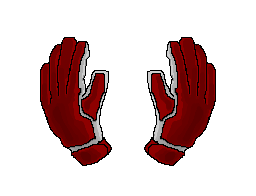
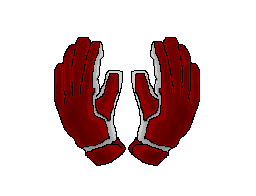
Les gants bougent en fonction de la souris. BalloonEntity factorisé

Changed region(s): [[0.1562, 0.1837, 0.8438, 0.8571]]

diff --git a/GameFramework/src/gogoal/game/TrainingSession.java b/GameFramework/src/gogoal/game/TrainingSession.java
@@ -1,6 +1,8 @@
 package gogoal.game;
 
 import java.awt.Canvas;
+import java.awt.Point;
+import java.awt.image.BufferedImage;
 import java.util.Date;
 
 import gameframework.game.CanvasDefaultImpl;
@@ -12,7 +14,10 @@ import gameframework.game.MoveBlockerChecker;
 import gameframework.game.MoveBlockerCheckerDefaultImpl;
 import gameframework.game.OverlapProcessor;
 import gameframework.game.OverlapProcessorDefaultImpl;
+import gogoal.game.entities.BalloonEntity;
 import gogoal.game.entities.FootballFieldEntity;
+import gogoal.game.entities.GlovesEntity;
+import gogoal.game.entities.GoalEntity;
 import gogoal.perception_effects.ProxyPerceptionEffect;
 
 public abstract class TrainingSession extends GameLevelDefaultImpl
@@ -23,13 +28,44 @@ public abstract class TrainingSession extends GameLevelDefaultImpl
 	private int gameUpdateDelay;
 	protected Canvas canvas;
 	protected ProxyPerceptionEffect effects;
-
+	
+	protected FootballFieldEntity footballField;
+	protected GoalEntity goal;
+	protected GlovesEntity gloves;
+	protected BalloonEntity currentBalloon;
+	
 	public TrainingSession(Game g) {
 		super(g);
 		canvas = g.getCanvas();
 		stopTS = false;
 		gameUpdateDelay = DEFAULT_GAME_UPDATE_DELAY;
 		effects = new ProxyPerceptionEffect();
+	}
+	
+	/* 
+	 * Switches superposition of the gloves and the balloon when one goes
+	 * behind the other.
+	 */
+	private void checkBalloonGlovesPosition(){
+		if ( 	currentBalloon != null && 
+				currentBalloon.get3DPosition().isBehindZ(gloves.get3DPosition())) 
+		{
+			universe.removeGameEntity(currentBalloon);
+			universe.removeGameEntity(gloves);
+			
+			universe.addGameEntity(gloves);
+			universe.addGameEntity(currentBalloon);
+		}
+	}
+	
+	// Places the balloon and the gloves in the right order
+	public void placeBalloonEntity(BalloonEntity be){
+		universe.removeGameEntity(gloves);
+		universe.removeGameEntity(currentBalloon);
+		
+		universe.addGameEntity(be);
+		universe.addGameEntity(gloves);
+		currentBalloon = be;
 	}
 
 	@Override
@@ -42,18 +78,31 @@ public abstract class TrainingSession extends GameLevelDefaultImpl
 		universe = new GameUniverseDefaultImpl(moveBlockerChecker, overlapProcessor);
 		overlapRules.setUniverse(universe);
 
-		
 		int w = GoGoalConfig.getInstance().WIDTH;
 		int h = GoGoalConfig.getInstance().HEIGHT;
+		
 		canvas.setSize(w, h);
 		canvas.getParent().setSize(w, h);
 		canvas.getParent().validate();
+		
+		/*
+		 * Replaces mouse cursor by blank image.
+		 * Source : https://stackoverflow.com/questions/1984071/how-to-hide-cursor-in-a-swing-application#1984117
+		 */
+		canvas.setCursor(canvas.getToolkit().createCustomCursor(
+	            new BufferedImage(3, 3, BufferedImage.TYPE_INT_ARGB), new Point(0, 0),
+	            "null"));
+		
 		gameBoard = new GameUniverseViewPortDefaultImpl(canvas, universe);
 		gameBoard.refresh();
 		((CanvasDefaultImpl) canvas).setDrawingGameBoard(gameBoard);
 		
-		FootballFieldEntity ffe = new FootballFieldEntity(canvas);
-		universe.addGameEntity(ffe);
+		footballField = new FootballFieldEntity(canvas);
+		goal = new GoalEntity(canvas);
+		gloves = new GlovesEntity(canvas);
+		
+		universe.addGameEntity(footballField);
+		universe.addGameEntity(goal);
 		
 		setUpLevel();
 	}
@@ -65,10 +114,13 @@ public abstract class TrainingSession extends GameLevelDefaultImpl
 		long start;
 		while (!stopTS && !this.isInterrupted()) {
 			start = new Date().getTime();
+			
 			effects.apply();
 			gameBoard.paint();
 			universe.allOneStepMoves();
 			universe.processAllOverlaps();
+			checkBalloonGlovesPosition();
+			
 			try {
 				long sleepTime = gameUpdateDelay
 						- (new Date().getTime() - start);

diff --git a/GameFramework/src/gogoal/rendering/InDepthDrawableImage.java b/GameFramework/src/gogoal/rendering/InDepthDrawableImage.java
@@ -27,15 +27,14 @@ public class InDepthDrawableImage implements Drawable
 
 	public void setDistanceToCamera(int dtc){
 		if ( dtc != distanceToCam ){
-			
 			Point bDimension = rImg.getBaseDimension();
 			float bWidth = (float) bDimension.getX(), bHeight = (float) bDimension.getY();
 			float factor = dtc >= 0 ? ((float) dtc) + 1.0f : -1.0f;
 			
 			if ( factor != - 1.0f) {
 				// Image is in front of the camera :
-				float nWidth = bWidth * bWidth/factor;
-				float nHeight = bHeight * bHeight/factor;
+				float nWidth = bWidth * (bWidth/factor);
+				float nHeight = bHeight * (bHeight/factor);
 				
 				if ( 	nWidth >= 0.5f && nHeight >= 0.5f && 
 						nWidth <= ResizableDrawableImage.SIZE_LIMIT && 
@@ -52,7 +51,8 @@ public class InDepthDrawableImage implements Drawable
 				// Image is behind the camera :
 				canBeSeen = false;
 			}
-			distanceToCam = dtc;
+			distanceToCam = dtc;//*/
+			
 		}
 	}
 	

diff --git a/GameFramework/src/gogoal/TrainingSessionOne.java b/GameFramework/src/gogoal/TrainingSessionOne.java
@@ -15,7 +15,7 @@ public class TrainingSessionOne extends TrainingSession
 	@Override
 	protected void setUpLevel() {
 		BalloonEntity be = new BalloonEntity(canvas, new Point3D(400, 300, 1000));
-		universe.addGameEntity(be);
+		placeBalloonEntity(be);
 		
 		// TEST COMPOSITION D'EFFETS :
 		BuilderPerceptionEffectDizzy bped = new BuilderPerceptionEffectDizzy();
@@ -25,14 +25,14 @@ public class TrainingSessionOne extends TrainingSession
 		bped.setMagnitude(80.0f);
 		bped.setVertical(true);
 		
-		effects.composeEffect(bped);
+		//effects.composeEffect(bped);
 		
 		bped.setDuration(12000);
 		bped.setIntensity(1.0f);
 		bped.setMagnitude(50.0f);
 		bped.setVertical(false);
 		
-		effects.composeEffect(bped);
+		//effects.composeEffect(bped);
 	}
 
 }

diff --git a/GameFramework/src/gogoal/game/entities/GlovesEntity.java b/GameFramework/src/gogoal/game/entities/GlovesEntity.java
@@ -1,0 +1,25 @@
+package gogoal.game.entities;
+
+import java.awt.Canvas;
+import java.awt.Graphics;
+import java.awt.MouseInfo;
+import java.awt.Point;
+
+import gogoal.game.GoGoalConfig;
+import gogoal.utility.Point3D;
+
+public class GlovesEntity extends GoGoal3DEntity {
+
+	public GlovesEntity(Canvas defaultCanvas) {
+		super(	defaultCanvas, GoGoalConfig.getInstance().GLOVES_IMG, 154, 118,
+				new Point3D(400.0f, 300.0f, 100.0f));
+	}
+	
+	@Override
+	public void draw(Graphics g){
+		Point mPos = MouseInfo.getPointerInfo().getLocation();
+		position.moveTo(mPos.x, mPos.y, position.getZ());
+		super.draw(g);
+	}
+
+}

diff --git a/GameFramework/src/gogoal/rendering/ResizableDrawableImage.java b/GameFramework/src/gogoal/rendering/ResizableDrawableImage.java
@@ -18,8 +18,10 @@ public class ResizableDrawableImage extends DrawableImage
 	}
 	
 	public void resize(int width, int height){
-		if ( width <= SIZE_LIMIT && height <= SIZE_LIMIT )
+		if ( width <= SIZE_LIMIT && height <= SIZE_LIMIT ){
+			//System.out.println("nDIM = " + width + " ; " + height );
 			dimension.move(width, height);
+		}
 	}
 	
 	public Point getBaseDimension(){

diff --git a/GameFramework/src/gogoal/game/entities/GoalEntity.java b/GameFramework/src/gogoal/game/entities/GoalEntity.java
@@ -10,7 +10,7 @@ public class GoalEntity extends GoGoal3DEntity {
 	public GoalEntity(Canvas defaultCanvas) {
 		super( 	defaultCanvas, 
 				GoGoalConfig.getInstance().GOAL_IMG,
-				800, 600, new Point3D(395.0f, 250.0f, 700.0f));
+				800, 1024, new Point3D(395.0f, 400.0f, 700.0f));
 	}
 
 }

diff --git a/GameFramework/src/gogoal/game/entities/GoGoal3DEntity.java b/GameFramework/src/gogoal/game/entities/GoGoal3DEntity.java
@@ -36,6 +36,10 @@ public abstract class GoGoal3DEntity implements Drawable, GameEntity, Overlappab
 	public Point getPosition() {
 		return pos2;
 	}
+	
+	public Point3D get3DPosition(){
+		return position;
+	}
 
 	@Override
 	public void draw(Graphics g) {
